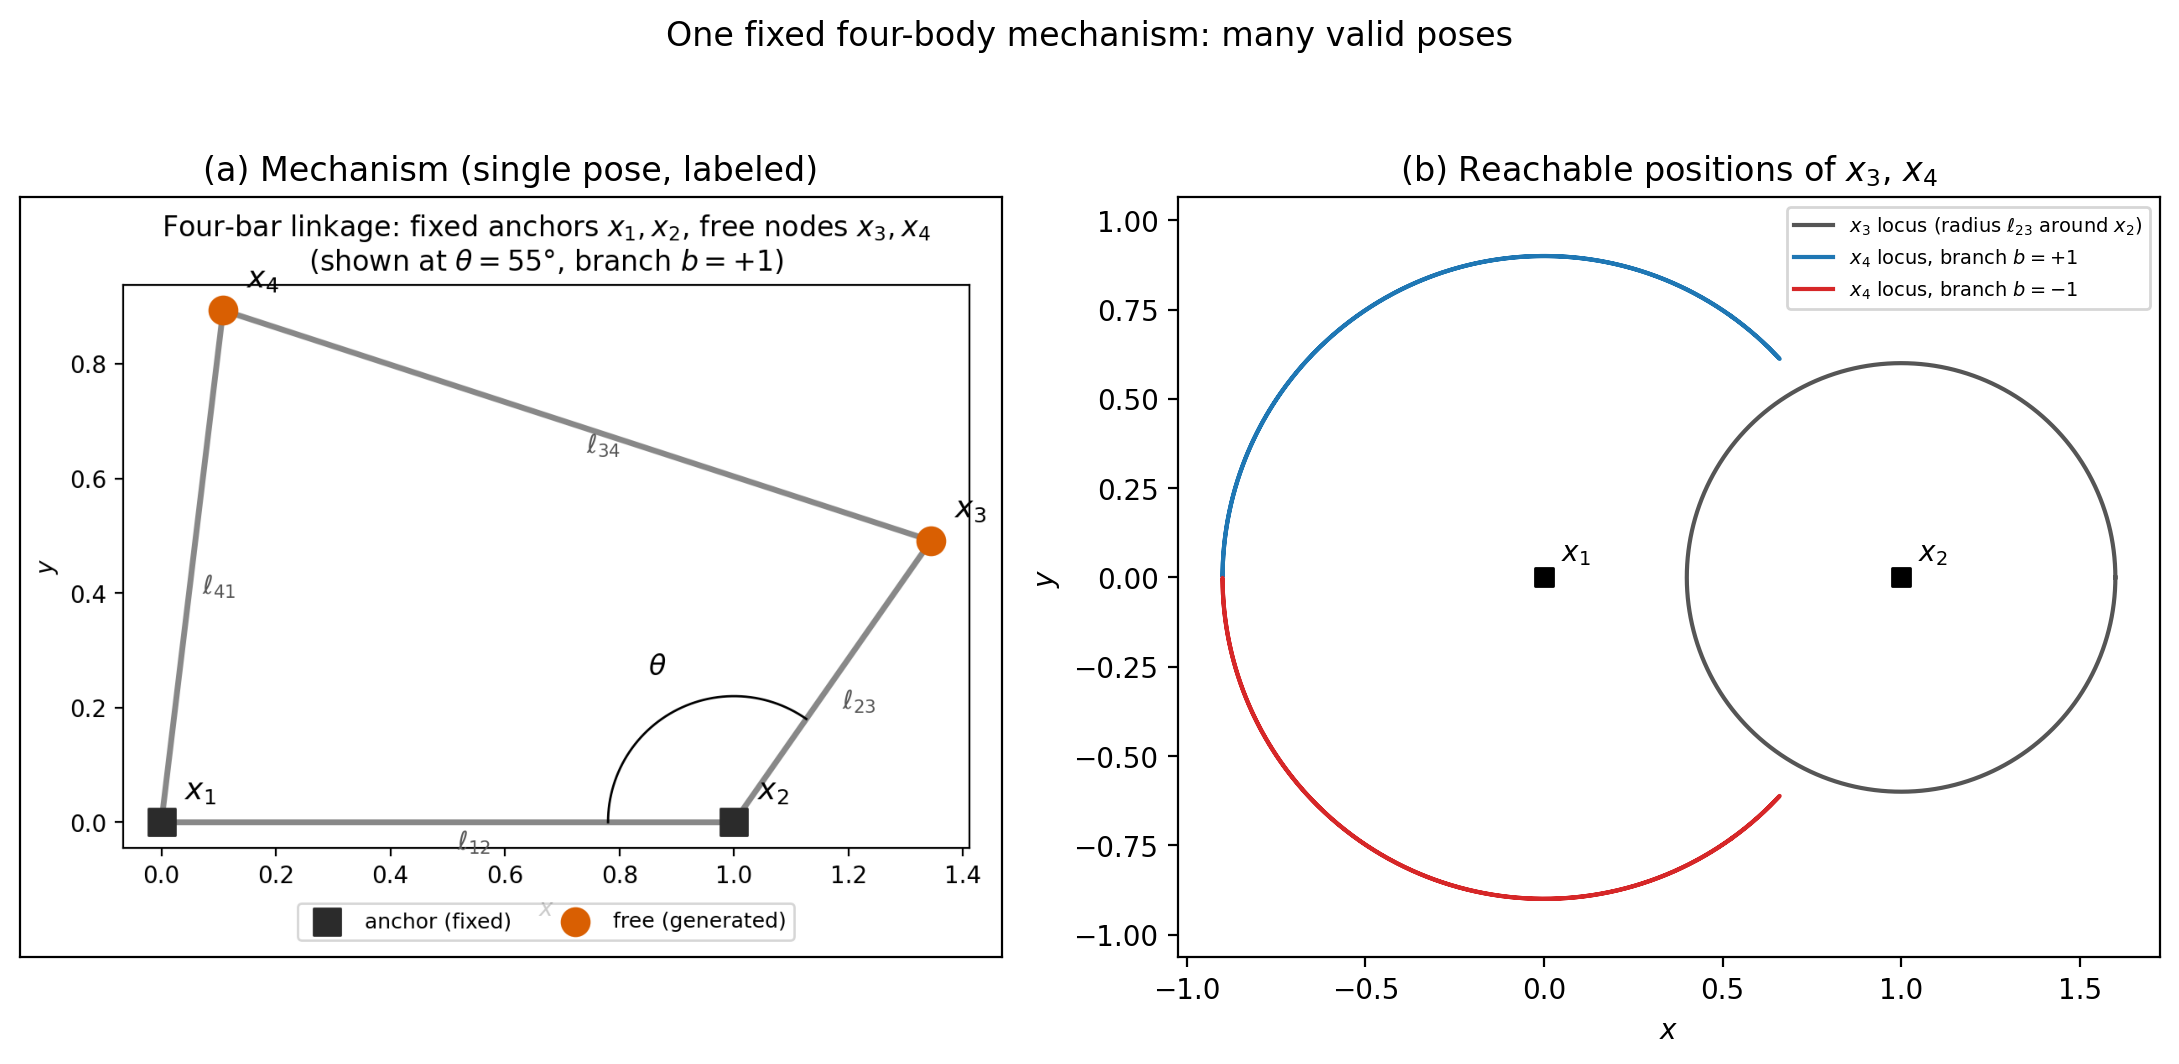
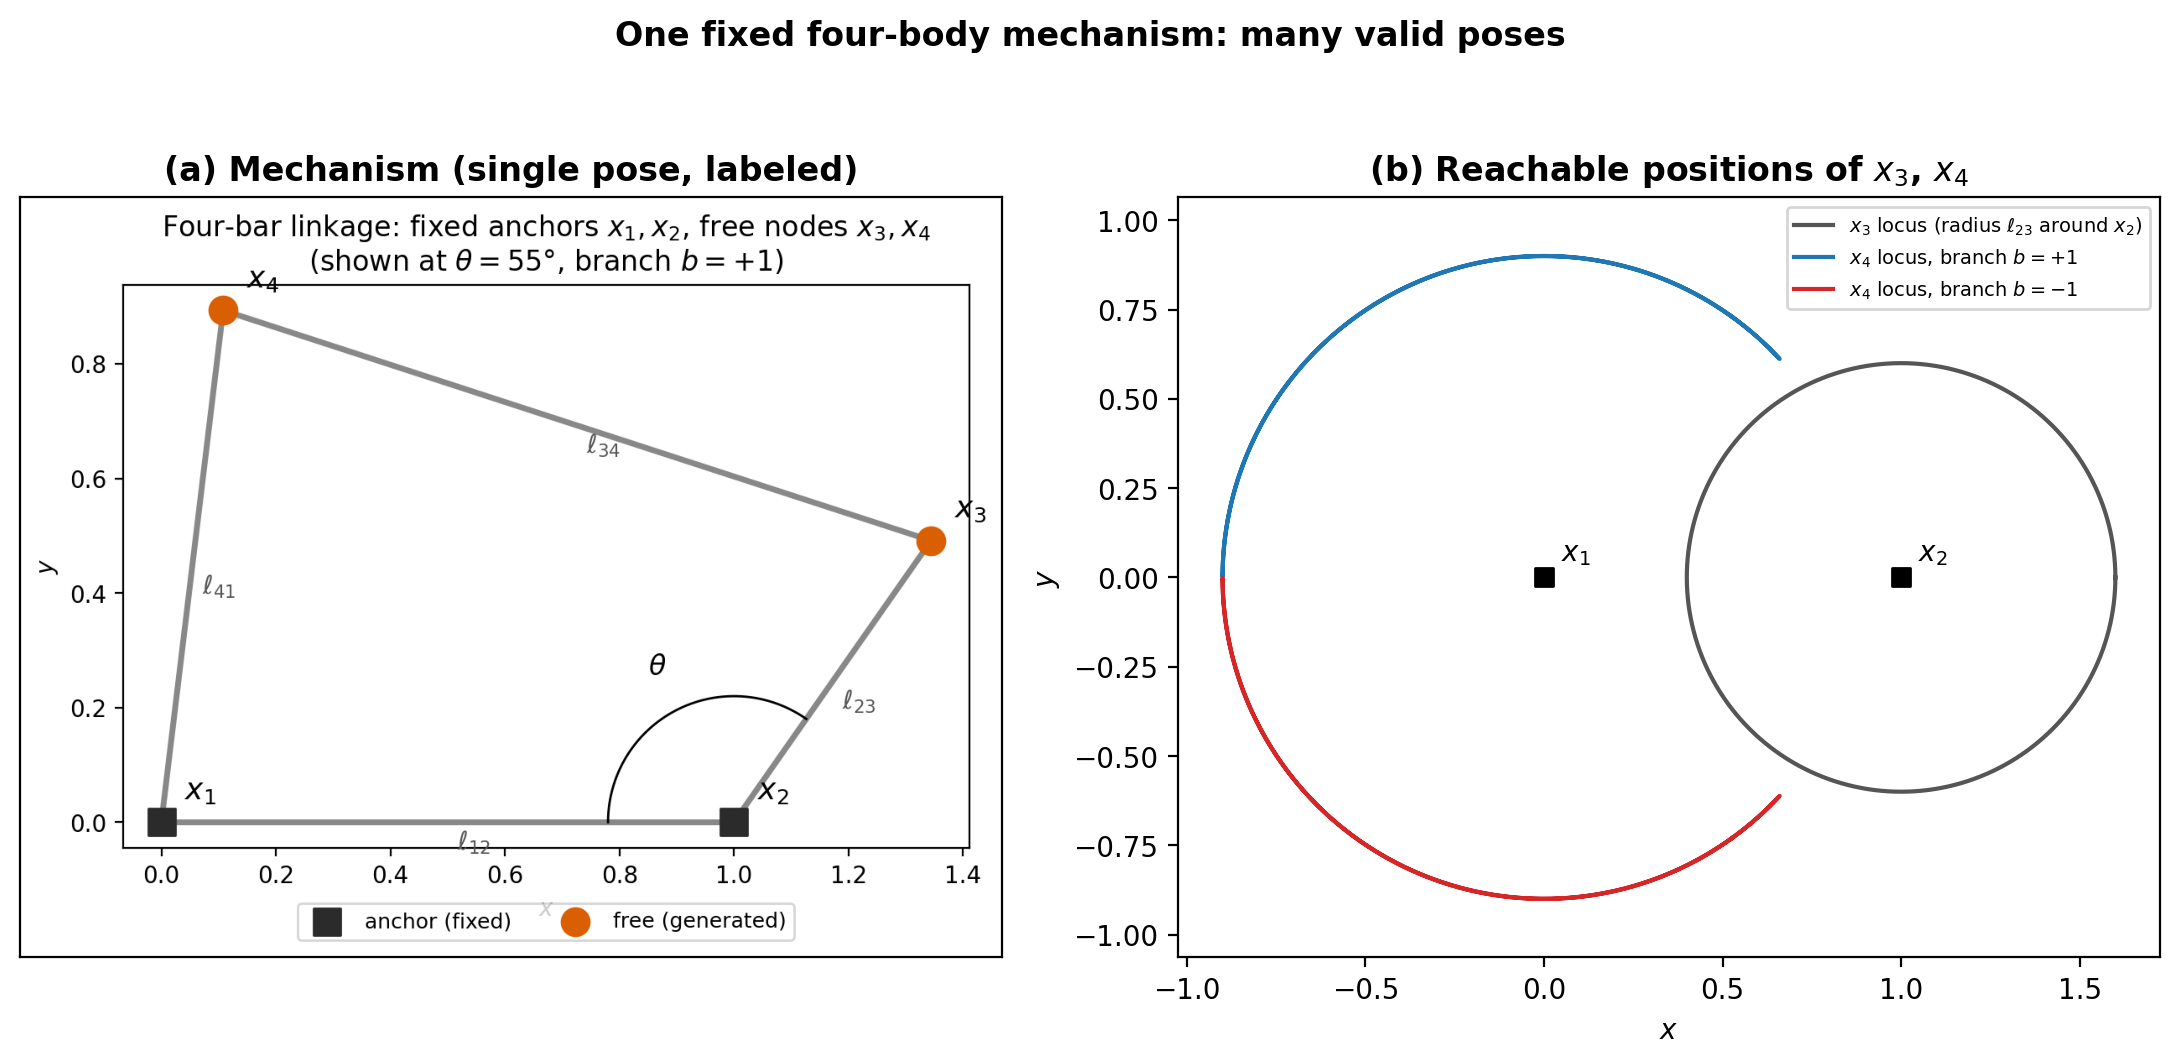
Bold the main title and panel (a)/(b) titles

Changed region(s): [[0.2809, 0.0, 0.7178, 0.062], [0.0624, 0.1241, 0.4057, 0.1861], [0.6241, 0.1241, 0.905, 0.1861]]

diff --git a/experiments/E00_problem_visualization/plot_dataset_overview.py b/experiments/E00_problem_visualization/plot_dataset_overview.py
@@ -37,7 +37,7 @@ def plot_schematic(ax):
     # the embedded image is its own title/legend whitespace, not ink.
     ax.set_xticks([])
     ax.set_yticks([])
-    ax.set_title("(a) Mechanism (single pose, labeled)")
+    ax.set_title("(a) Mechanism (single pose, labeled)", fontweight="bold")
     return img.shape[0] / img.shape[1]
 
 
@@ -63,7 +63,7 @@ def plot_node_loci(ax, box_aspect):
     ax.scatter(*X2, color="black", marker="s", s=45, zorder=4)
     ax.annotate("$x_1$", X1, textcoords="offset points", xytext=(6, 6))
     ax.annotate("$x_2$", X2, textcoords="offset points", xytext=(6, 6))
-    ax.set_title("(b) Reachable positions of $x_3$, $x_4$")
+    ax.set_title("(b) Reachable positions of $x_3$, $x_4$", fontweight="bold")
     ax.set_xlabel("$x$")
     ax.set_ylabel("$y$")
     # Match the schematic's box shape (not just the data aspect) so both
@@ -77,7 +77,7 @@ def main():
     fig, axes = plt.subplots(1, 2, figsize=(11, 5.5))
     box_aspect = plot_schematic(axes[0])
     plot_node_loci(axes[1], box_aspect)
-    fig.suptitle("One fixed four-body mechanism: many valid poses")
+    fig.suptitle("One fixed four-body mechanism: many valid poses", fontweight="bold")
     fig.tight_layout()
     save_figure(fig, "dataset_overview", bbox_inches="tight")
 
